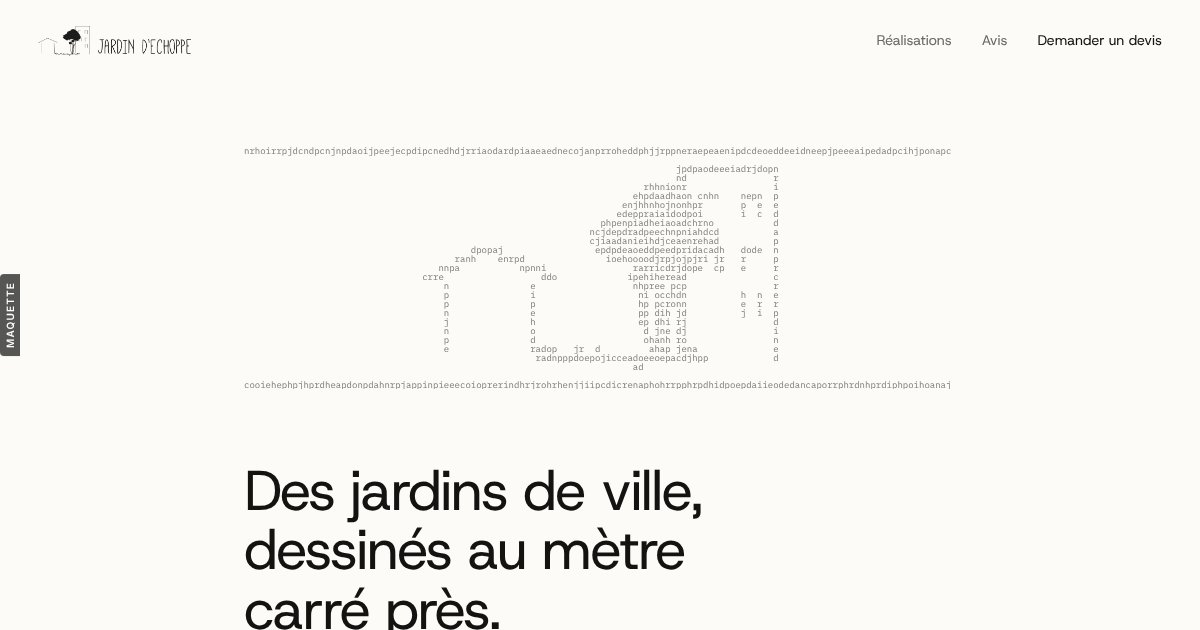
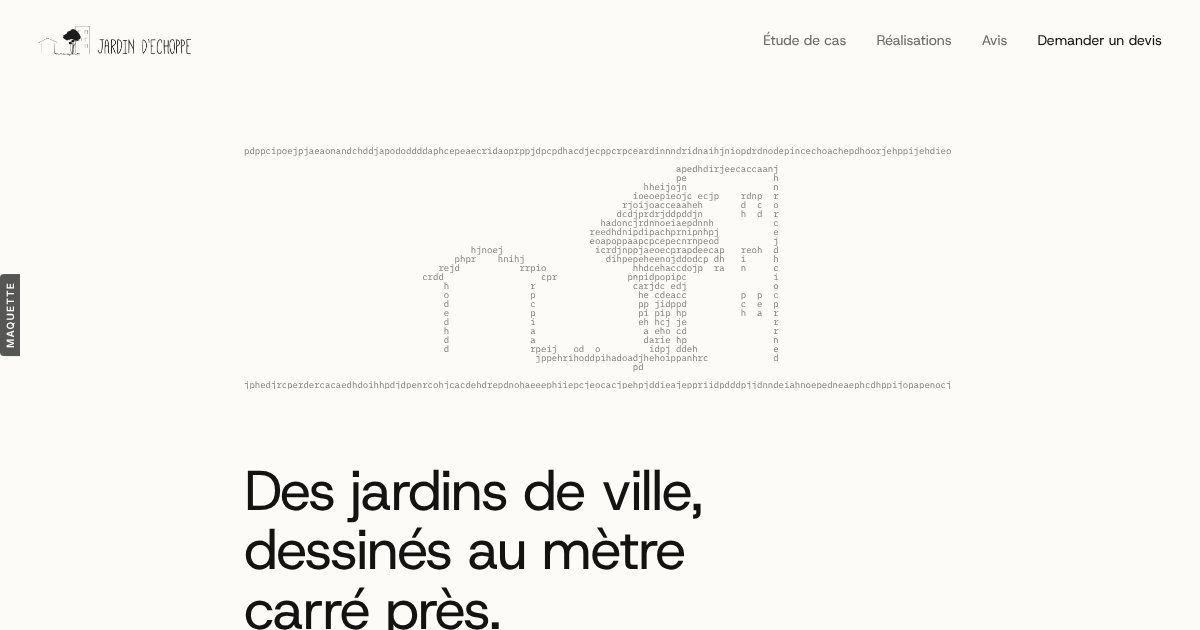
Échoppe v3 : étude de cas au style des articles du site de référence ; règle de travail enregistrée (regarder le vrai site et ses pages intérieures)
Claude-Session: https://claude.ai/code/session_01BKBzmXfCDzJvg2c12ASxcC

diff --git a/echoppe-3/index.html b/echoppe-3/index.html
@@ -121,12 +121,38 @@ footer { display: flex; justify-content: space-between; gap: 16px; padding: 140p
 footer a { color: var(--ink); }
 footer .small { flex-basis: 100%; text-align: center; font-size: 12px; color: var(--soft); order: 3; margin-top: 12px; }
 
+
+/* Étude de cas, d'après les articles du site de référence */
+.story { padding-top: 140px; }
+.story .meta { font: 500 11px var(--sans); letter-spacing: .08em; text-transform: uppercase; color: var(--grey); }
+.story h2.t { font-size: clamp(30px, 3.6vw, 40px); font-weight: 400; letter-spacing: -0.02em; line-height: 1.12; margin-top: 12px; max-width: 18ch; }
+.story .by { font-size: 13px; color: var(--grey); margin-top: 12px; }
+.story .by span { border-bottom: 1px solid var(--soft); }
+.story p { font-size: 16.5px; color: var(--text); margin-top: 16px; line-height: 1.6; max-width: 58ch; }
+.hl { background: #e2eae9; padding: 1px 3px; box-decoration-break: clone; -webkit-box-decoration-break: clone; }
+.story h3 { font-size: 21px; font-weight: 400; letter-spacing: -0.01em; line-height: 1.25; margin-top: 48px; padding-top: 28px; border-top: 1px solid var(--line); }
+.story figure { margin-top: 28px; }
+.story figcaption { font-size: 13px; color: var(--grey); margin-top: 12px; line-height: 1.5; }
+.story figcaption b { font-weight: 400; color: var(--text); }
+.story .pic { aspect-ratio: 16 / 10; overflow: hidden; }
+.story .pic img { width: 100%; height: 100%; object-fit: cover; }
+.story ol { margin-top: 16px; padding-left: 22px; }
+.story ol li { font-size: 16.5px; color: var(--text); margin-top: 10px; line-height: 1.55; padding-left: 4px; }
+.story ol li::marker { color: var(--grey); }
+.story ol b { font-weight: 500; color: var(--ink); }
+.schema { width: 100%; height: auto; display: block; }
+.m-only { display: none; }
+@media (max-width: 640px) { .m-only { display: inline; } }
+
 .dock { display: none; }
 .reveal { opacity: 0; transform: translateY(12px); transition: opacity 1s, transform 1s cubic-bezier(.2,.7,.2,1); }
 .reveal.in { opacity: 1; transform: none; }
 
 @media (max-width: 640px) {
   body { padding-bottom: 76px; }
+  .story { padding-top: 96px; }
+  .schema-wrap { overflow-x: auto; margin-right: -16px; scrollbar-width: none; }
+  .schema-wrap svg { min-width: 560px; }
   header { padding: 18px 16px; }
   header nav { gap: 16px; font-size: 13px; }
   header nav a:not(:last-child) { display: none; }
@@ -158,7 +184,7 @@ footer .small { flex-basis: 100%; text-align: center; font-size: 12px; color: va
 
 <header>
   <a class="logo" href="#top" aria-label="Jardin d'Échoppe, accueil"><img class="d" src="../echoppe/img/logo-dessin.png" alt="" width="744" height="427"><img class="m" src="../echoppe/img/logo-mot.png" alt="Jardin d'Échoppe" width="729" height="118"></a>
-  <nav><a href="#realisations">Réalisations</a><a href="#avis">Avis</a><a href="#devis">Demander un devis</a></nav>
+  <nav><a href="#etude">Étude de cas</a><a href="#realisations">Réalisations</a><a href="#avis">Avis</a><a href="#devis">Demander un devis</a></nav>
 </header>
 
 <main id="top">
@@ -182,6 +208,52 @@ footer .small { flex-basis: 100%; text-align: center; font-size: 12px; color: va
       <p>Ce que nous réalisons, du croquis à la taille d'hiver</p>
       <ul><li>Terrasses bois</li><li>Murets</li><li>Clôtures</li><li>Brise-vue</li><li>Pergolas</li><li>Cabanons</li><li>Potagers</li><li>Éclairage</li><li>Arrosage intégré</li></ul>
     </div>
+
+
+    <article class="story" id="etude">
+      <span class="meta reveal">Étude de cas · exemple de projet</span>
+      <h2 class="t reveal">Un jardin d'échoppe de 80 m² qui paraît deux fois plus grand</h2>
+      <p class="by reveal">Conception, réalisation et entretien par <span>l'équipe Jardin d'Échoppe</span></p>
+      <p class="reveal">Derrière une échoppe bordelaise, le jardin est souvent une bande étroite entre deux murs mitoyens : peu de lumière, un vis-à-vis, un sol fatigué par les travaux de la maison. <span class="hl">Le but n'est pas d'ajouter des plantes, mais de découper l'espace en plusieurs ambiances pour que l'œil ne voie plus le fond du jardin d'un seul coup.</span></p>
+      <p class="reveal">Une cliente l'a résumé ainsi : « … le jardin est transformé, il semble avoir doublé de volume. »</p>
+      <figure class="reveal">
+        <div class="pic"><img src="../echoppe/img/s-cour.webp" alt="Petite cour plantée avec dallage et buis" loading="lazy"></div>
+        <figcaption>Figure 1. Plusieurs ambiances dans un petit espace : un dallage, des massifs bas, des grimpantes sur le mur. <b>Photo d'illustration</b>, remplacée par vos réalisations.</figcaption>
+      </figure>
+
+      <h3 class="reveal">Une seule équipe, au lieu de quatre artisans à coordonner</h3>
+      <p class="reveal">Pour un petit jardin, faire venir un dessinateur, un maçon, un poseur de terrasse puis un jardinier coûte du temps et crée des décalages. Chez Jardin d'Échoppe, la même équipe suit le projet du croquis à l'entretien.</p>
+      <figure class="reveal">
+        <div class="schema-wrap"><svg class="schema" viewBox="0 0 720 250" font-family="Host Grotesk" font-size="13" fill="#141312">
+          <text x="170" y="20" text-anchor="middle" font-size="12">Plusieurs artisans</text>
+          <text x="560" y="20" text-anchor="middle" font-size="12">Jardin d'Échoppe</text>
+          <g stroke="#141312" stroke-width="1" fill="none"><path d="M20 135h40M60 135V60M60 135v75M60 60h20M60 105h20M60 165h20M60 210h20"/></g>
+          <g fill="#141312"><circle cx="20" cy="135" r="3"/><circle cx="40" cy="135" r="2.5"/></g>
+          <text x="30" y="160" text-anchor="middle" font-size="12">Votre jardin</text>
+          <g fill="#efede8" stroke="#d8d4cc"><rect x="80" y="44" width="110" height="32" rx="3"/><rect x="80" y="89" width="110" height="32" rx="3"/><rect x="80" y="149" width="110" height="32" rx="3"/><rect x="80" y="194" width="110" height="32" rx="3"/></g>
+          <g text-anchor="middle"><text x="135" y="65">Dessinateur</text><text x="135" y="110">Maçon</text><text x="135" y="170">Poseur terrasse</text><text x="135" y="215">Jardinier</text></g>
+          <g stroke="#cfcac1" stroke-width="1"><path d="M190 60h40M190 105h40M190 165h40M190 210h40"/></g>
+          <g fill="#cfcac1"><circle cx="232" cy="60" r="3"/><circle cx="232" cy="105" r="3"/><circle cx="232" cy="165" r="3"/><circle cx="232" cy="210" r="3"/></g>
+          <g font-size="12"><text x="242" y="64">Plans</text><text x="242" y="109">Murets, bordures</text><text x="242" y="169">Terrasse bois</text><text x="242" y="214">Taille, tonte</text></g>
+          <g stroke="#141312" stroke-width="1" fill="none"><path d="M410 135h50"/></g>
+          <g fill="#141312"><circle cx="410" cy="135" r="3"/><circle cx="432" cy="135" r="2.5"/></g>
+          <text x="420" y="160" text-anchor="middle" font-size="12">Votre jardin</text>
+          <rect x="460" y="113" width="140" height="44" rx="3" fill="#4f6466"/>
+          <text x="530" y="140" text-anchor="middle" fill="#fff" font-size="14">Une seule équipe</text>
+          <g stroke="#a9bcbd" stroke-width="1" fill="none"><path d="M600 135h18M618 135V60M618 135v75M618 60h14M618 105h14M618 165h14M618 210h14"/></g>
+          <g fill="#4f6466"><circle cx="634" cy="60" r="3"/><circle cx="634" cy="105" r="3"/><circle cx="634" cy="165" r="3"/><circle cx="634" cy="210" r="3"/></g>
+          <g font-size="12"><text x="644" y="64">Plans</text><text x="644" y="109">Murets</text><text x="644" y="169">Terrasse</text><text x="644" y="214">Entretien</text></g>
+        </svg></div>
+        <figcaption><span class="m-only">Faites glisser le schéma. </span>Figure 2. À gauche, chaque étape a son artisan et ses délais. À droite, une seule équipe enchaîne les plans, les travaux et l'entretien, avec un seul interlocuteur.</figcaption>
+      </figure>
+      <p class="reveal">Concrètement, le projet se déroule en quatre temps :</p>
+      <ol class="reveal">
+        <li><b>Écouter :</b> vos envies, vos habitudes et l'usage que vous ferez du jardin, le matin comme le soir.</li>
+        <li><b>Dessiner :</b> plans, dessins et dossier d'étude, avec des plantes choisies pour la lumière réelle du lieu.</li>
+        <li><b>Réaliser :</b> terrasse bois, murets, clôture ou brise-vue, plantations et arrosage intégré.</li>
+        <li><b>Entretenir :</b> ponctuellement, ou avec un contrat et plusieurs passages par an.</li>
+      </ol>
+    </article>
 
     <section class="block" id="realisations">
       <h2 class="reveal">Réalisations</h2>

diff --git a/CLAUDE.md b/CLAUDE.md
@@ -1,0 +1,9 @@
+# Maquettes — règles de travail
+
+- Quand Alexandre envoie un modèle (fiche Refero ou autre), ne pas se contenter de la fiche :
+  aller voir le vrai site soi-même, la page d'accueil ET les pages intérieures (articles, pages
+  produit, équipe…), avec des captures. La fiche peut être fausse ou ancienne.
+- Avis Google recopiés mot pour mot (passages coupés signalés par « … »), prénom + initiale, mois et année.
+- Vrai logo du client, photos Unsplash libres en attendant les siennes, mention en pied de page.
+- Chaque maquette garde le bandeau « maquette », l'étiquette verticale, le noindex et l'aperçu apercu.jpg.
+- Vérifier chaque page en Playwright à 1440 px et 390 px avant de la montrer.
